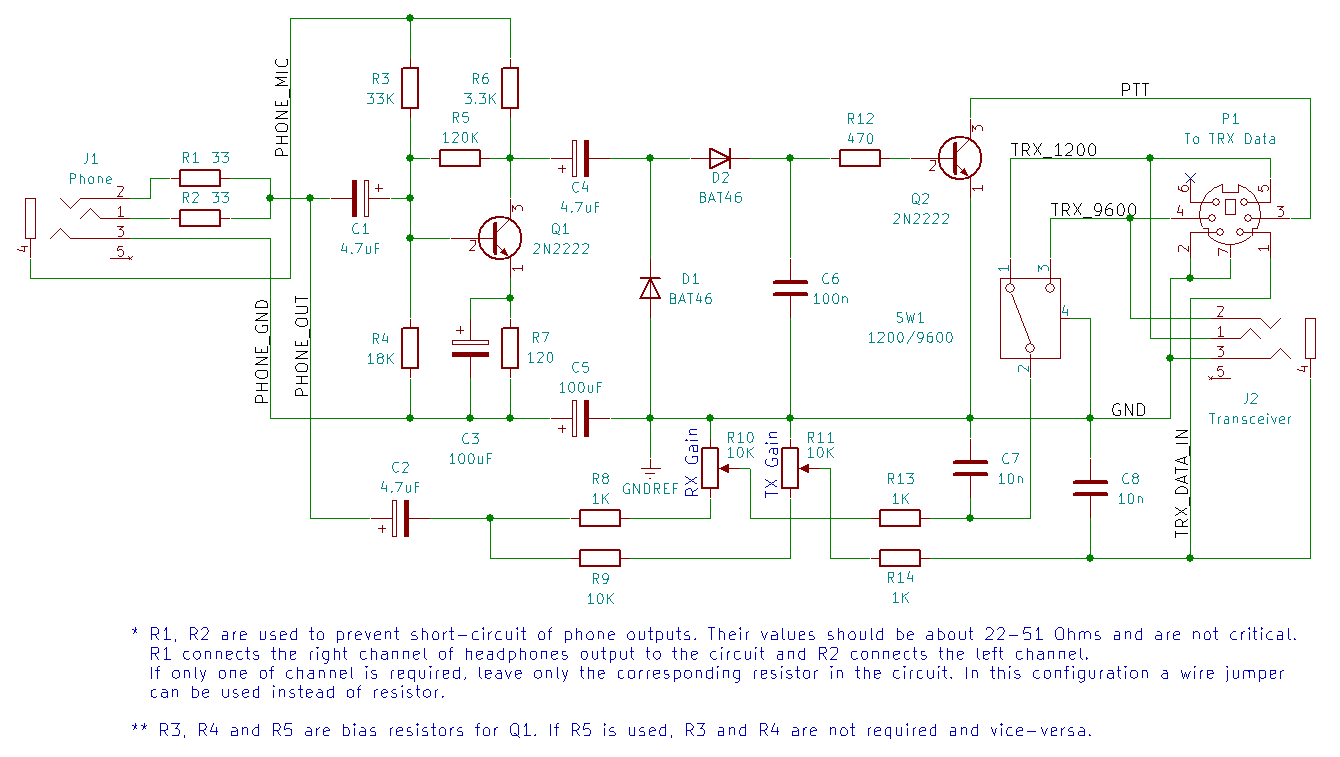
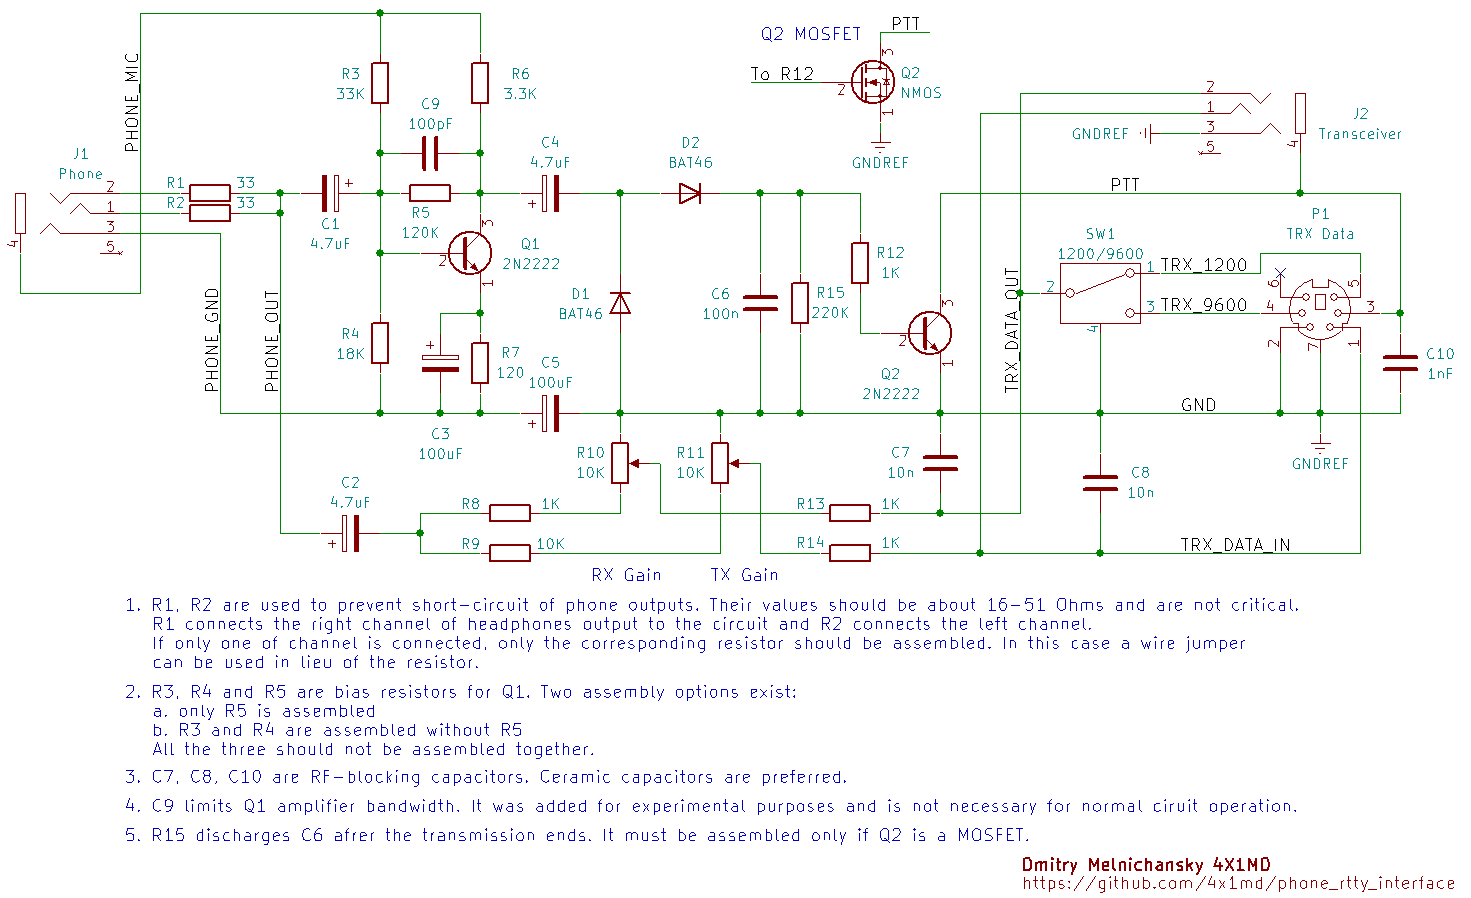
Added revision B description.

diff --git a/README.md b/README.md
@@ -14,6 +14,14 @@ One of my sources was the article [An AFSK Interface for Android Smartphones](ht
 
 More circuits are available in [links section](#links) of this document.
 
+## Revision A
+
+The interface has two revisions. The difference between the two is relatively small. Circuit description and mechanics presented further down in this document are relevant for both revisions.
+
+For the schematics and the photos of the first revision please refer to [revision_a.md](https://github.com/4x1md/phone_rtty_interface/blob/master/docs/revision_a.md)
+
+If you got a blue PCB from me, you have the first revision board.
+
 ## Schematic
 
 ![Schematic](https://raw.githubusercontent.com/4x1md/phone_rtty_interface/master/docs/images/phone_rtty_interface_cicruit.png)
@@ -24,13 +32,15 @@ J1 connects the interface to a phone or tablet. It is a generic 4-pole 3.5mm jac
 
 R1 and R2 prevent short-circuit of phone outputs. Their values are not critical and can be in the range of 10 to 51 Ohm. R1 connects the output of the right channel and R2 connects the left. One channel or both can be used. If only one channel is used, only the corresponding resistor should be assembled. In this configuration a wire jumper can be used instead of a resistor.
 
-Transistor Q1 is a common emitter voltage amplifier stage. It is powered from the phone by the DC voltage which usually powers external microphone. 
+Transistor Q1 is a common emitter voltage amplifier stage. It is powered from the phone by the DC voltage which usually powers external microphone.
 
 The bias resistors of this stage are R3, R4 and R5. These three resistors allow building two different amplifier types. All the three should not be assembled at the same time. Assembling R5 only creates a shunt feedback stage. In this case R3 and R4 are not required. If R3 and R4 are assembled the amplifier becomes voltage divider biased stage without AC feedback. In this case R5 is not required. These three resistor footprints leave some field for experimenting which is an essential part of the amateur radio.
 
 Diodes D1 and D2 rectify the amplified signal and create DC bias for Q2 which pulls down the PTT line of the transceiver. Different versions of this circuit use different types of diodes. Some use silicon diodes, others use Shottkys. My assembled version worked well with 1N4148 silicon diodes. Replacing them with BAT46 Shottkys increased the rectifier output voltage. Germanium diodes like 1N34 or 1N60 should work as well in this circuit.
 
 Transistor Q2 pulls the PTT line of the transceiver down. The PTT line of FT-817ND has pull-up resistors network with total resistance of 11 kOhm. It means that the current needed to pull the PTT voltage down to zero is 0.45 mA. It requires bias current of Q2 to be about 20 microamperes. In actual circuit the voltage on C6 will be about 0.8V which will be enough to bias Q2 into saturation.
+
+Resistor R15 discharges C6 when the PTT line needs to be released. It is required if Q2 is a MOSFET. It was added in the second version of the interface.
 
 The design features two connectors for connecting a transceiver. P1 is a 6-pin mini-DIN connector which is pin-compatible with DATA connector of Yaesu FT-817. The second connector, J2 is 4-pole 3.5mm jack. It is a generic connector which can also be used to connect transceivers. The 3.5mm TRRS jack does not have PTT line. Two connectors are put for redundancy. In actual circuit only one or both can be assembled depending on requirements.
 
@@ -48,6 +58,22 @@ If you like exploring oscilloscope output, doing some math and want more details
 
 If you like simulating circuits, refer to [circuit_simulations.md](https://github.com/4x1md/phone_rtty_interface/blob/master/docs/circuit_simulations.md) for LTspice simulations.
 
+## BOM variants
+
+The second revision of the interface Q2 can be BJT or MOSFET.
+
+### BJT Version
+
+![BOM version with BJT](https://raw.githubusercontent.com/4x1md/phone_rtty_interface/master/docs/images/phone_rtty_bjt.png)
+
+### MOSFET Variant
+
+The rectifier output voltage reaches approximately 2.2V when loaded with a high resistance. Therefore, a low threshold N-channel MOSFET is recommended for this circuit. For example, VN2410L has maximum Vth of 2.0V, which makes it a good choice. However, a general purpose MOSFET with a higher Vth can work too. In my circuit I used 2N7000 which has maximum threshold of 3.0V and it works well.
+
+If Q2 is a MOSFET, R15 is require for discharging C6. Without R15, C6 will remain charged after the first transmit and the PTT line will never be released.
+
+![BOM version with MOSFET](https://raw.githubusercontent.com/4x1md/phone_rtty_interface/master/docs/images/phone_rtty_mosfet.png)
+
 ## Design
 
 ### Requirements and considerations
@@ -55,7 +81,7 @@ If you like simulating circuits, refer to [circuit_simulations.md](https://githu
  - Enclosure box.
  - Small size.
  - Easy-to-get parts.
- - Adjusting potentiometers from front or rear panel. 
+ - Adjusting potentiometers from front or rear panel.
  - No proprietary connectors.
  - Easy assembly.
  - Good repeatability by other hams.
@@ -65,7 +91,7 @@ If you like simulating circuits, refer to [circuit_simulations.md](https://githu
 
 When I started the development, I decided to assemble the device in an enclosure box. The box had to be inexpensive and easily available from different electronic parts suppliers.
 
-After some search I found a blue aluminium box 58x50x24mm. The box is relatively cheap and can be purchased from many sellers on eBay or AliExpress. The box fits a PCB of 50x50mm which is enough for this project and has front and rear panels which can be easily modified by drilling or cutting.
+After some search I found a blue aluminium box 58x50x24mm. The box is relatively cheap and can be purchased from many sellers on eBay or AliExpress. The box fits a PCB of 50x50mm which is enough for this project and has front and rear panels which can be modified by drilling or cutting. In order to eliminate the drilling process, in revision B I created front and rear panels from PCBs.
 
 ![Photo](https://raw.githubusercontent.com/4x1md/phone_rtty_interface/master/docs/images/box_01.jpg)
 
@@ -77,44 +103,49 @@ After some search I found a blue aluminium box 58x50x24mm. The box is relatively
 
 The PCB was designed using KiCAD software as a simple two-layer board with through-hole mounted parts.
 
-![Photo](https://raw.githubusercontent.com/4x1md/phone_rtty_interface/master/docs/images/pcb_front.jpg)
+![Photo](https://raw.githubusercontent.com/4x1md/phone_rtty_interface/master/docs/images/pcb_rev_b_front.jpg)
+<!-- ![Photo](https://raw.githubusercontent.com/4x1md/phone_rtty_interface/master/docs/images/pcb_back.jpg) -->
 
-![Photo](https://raw.githubusercontent.com/4x1md/phone_rtty_interface/master/docs/images/pcb_back.jpg)
+<!-- ![Photo](https://raw.githubusercontent.com/4x1md/phone_rtty_interface/master/docs/images/pcb_3d.jpg) -->
 
-![Photo](https://raw.githubusercontent.com/4x1md/phone_rtty_interface/master/docs/images/pcb_3d.jpg)
+### Front and Rear panels
+
+Both front and rear panels were made from PCBs. Their fuction is mechanical only and no electronic parts are assembled on these PCBs.
+
+![Front](https://raw.githubusercontent.com/4x1md/phone_rtty_interface/master/docs/images/pcb_rev_b_front_panel.png)
+
+![Rear](https://raw.githubusercontent.com/4x1md/phone_rtty_interface/master/docs/images/pcb_rev_b_rear_panel.png)
 
 ## Photo Gallery
 
 ### Factory-Produced PCB
 
-The PCB was produced by PCBWay who did a great job. Solder mask was made blue in order to match the color of the enclosure box.
+The PCBs were produced by PCBWay who did a great job. Solder mask of the first revision was made blue in order to match the color of the enclosure box. The second revision was produced with green solder mask.
 
-![Photo](https://raw.githubusercontent.com/4x1md/phone_rtty_interface/master/docs/images/pcbs_01.jpg)
-
-![Photo](https://raw.githubusercontent.com/4x1md/phone_rtty_interface/master/docs/images/pcbs_02.jpg)
+<!-- ![PCBs](https://raw.githubusercontent.com/4x1md/phone_rtty_interface/master/docs/images/pcbs.jpg) -->
 
 :warning: **Important Note!**
-Minimum order at the factory was 10 boards from which I need only two or three. As of October 12, 2017, I have seven and maybe eight boards, which I can give away. If you'd like to build this device for yourself, I can send you a board. Feel free to contact me.
+Minimum order at the factory was 10 boards from which I need only two or three. As of April 15, 2020, I have board sets (main PCB, front and rear panel), which I can give away. If you'd like to build this device for yourself, I can send you a board. Feel free to contact me.
 
 ### Populated PCB
 
 The design uses through hole parts which make PCB assembly quite simple. Connectors, trimmer potentiometers and switch are new. All the other components were recovered from old electronic equipment.
 
-![Photo](https://raw.githubusercontent.com/4x1md/phone_rtty_interface/master/docs/images/device_01.jpg)
+![Photo](https://raw.githubusercontent.com/4x1md/phone_rtty_interface/master/docs/images/pcba_01.jpg)
 
-![Photo](https://raw.githubusercontent.com/4x1md/phone_rtty_interface/master/docs/images/device_02.jpg)
-
-![Photo](https://raw.githubusercontent.com/4x1md/phone_rtty_interface/master/docs/images/device_03.jpg)
-
-![Photo](https://raw.githubusercontent.com/4x1md/phone_rtty_interface/master/docs/images/device_04.jpg)
+![Photo](https://raw.githubusercontent.com/4x1md/phone_rtty_interface/master/docs/images/pcba_02.jpg)
 
 ### Assembled Device
 
 I haven't yet completed drilling the front and the rear panel of the box, so the device isn't yet fully assembled. The following photos show that the PCB perfectly fits in the chosen box.
 
-![Photo](https://raw.githubusercontent.com/4x1md/phone_rtty_interface/master/docs/images/mech_01.jpg)
+![Photo](https://raw.githubusercontent.com/4x1md/phone_rtty_interface/master/docs/images/assembled_01.jpg)
 
-![Photo](https://raw.githubusercontent.com/4x1md/phone_rtty_interface/master/docs/images/mech_02.jpg)
+The complete device with front and rear panel assembled:
+
+![Photo](https://raw.githubusercontent.com/4x1md/phone_rtty_interface/master/docs/images/assembled_02.jpg)
+
+![Photo](https://raw.githubusercontent.com/4x1md/phone_rtty_interface/master/docs/images/assembled_03.jpg)
 
 ### Field tests and using the device
 
@@ -132,9 +163,9 @@ The developers of [Wolphi-Link interface](http://www.wolphi.com/interface/) repo
 
 I experienced the same behavior on VHF and UHF bands especially when trying to transmit in AM, FM or PKT modes. When the transmitting antenna is close to the board the transceiver remains in TX mode and the only way to release it is to turn it off. The issue usually disappears when the phone is disconnected even if its cable is still connected to the jack.
 
-I suppose that the cables between the transceiver and the phone become a counterpoise of the transmitting antenna and the generated RF causes transceiver keying. I don't know if this issue exists wiht other transceivers.
+I suppose that the cables between the transceiver and the phone become a counterpoise of the transmitting antenna and the generated RF causes transceiver keying. I don't know if this issue exists with other transceivers.
 
-Till now, I couln't find any solution. On HF bands and when the transmitting antenna is far from the transceiver the device functions properly.
+Till now, I couldn't find any solution. On HF bands and when the transmitting antenna is far from the transceiver the device functions properly.
 
 **Update:** After connecting a shielded cable between the transceiver and the interface, the problem is almost completely.
 
@@ -146,12 +177,12 @@ A properly assembled device should require only RX and TX level adjustments usin
 
 If I ever do another revision of this board, I'd like to make the following improvements:
 
-1. [ ] Adding an RF-blocking capacitor to the PTT line.
-2. [ ] Adding PTT line to J2 3.5mm jack.
-3. [ ] Adding a capacitor in parallel to R5 for limiting the bandwidth of the amplifier.
-4. [ ] Removing ground conductor from the component layer.
-5. [ ] Improving the thermal relief on the grounded pads. Today they are sometimes hard to solder.
-6. [ ] Increasing the space between R10 and R11 to fit larger trimmer resistors.
+1. [x] Adding an RF-blocking capacitor to the PTT line.
+2. [x] Adding PTT line to J2 3.5mm jack.
+3. [x] Adding a capacitor in parallel to R5 for limiting the bandwidth of the amplifier.
+4. [x] Removing ground conductor from the component layer.
+5. [x] Improving the thermal relief on the grounded pads. Today they are sometimes hard to solder.
+6. [x] Increasing the space between R10 and R11 to fit larger trimmer resistors.
 7. [ ] Adding a TX inhibit switch which will disable triggering the PTT line. It may be useful to prevent notifications or other non radio-related sounds to key the transceiver.
 
 ## Links

diff --git a/docs/revision_a.md b/docs/revision_a.md
@@ -10,7 +10,7 @@ The PCBs for this revision were blue only. Thus if you got a blue PCB from me, y
 
 ![Schematic](https://raw.githubusercontent.com/4x1md/phone_rtty_interface/master/docs/images/revision_a/phone_rtty_interface_cicruit.png)
 
-For the full schematic description please refer to [readme.md](https://github.com/4x1md/phone_rtty_interface/blob/master/readme.md).
+For the full schematic description please refer to [readme.md](https://github.com/4x1md/phone_rtty_interface/blob/master/README.md).
 
 ### PCB Development
 
